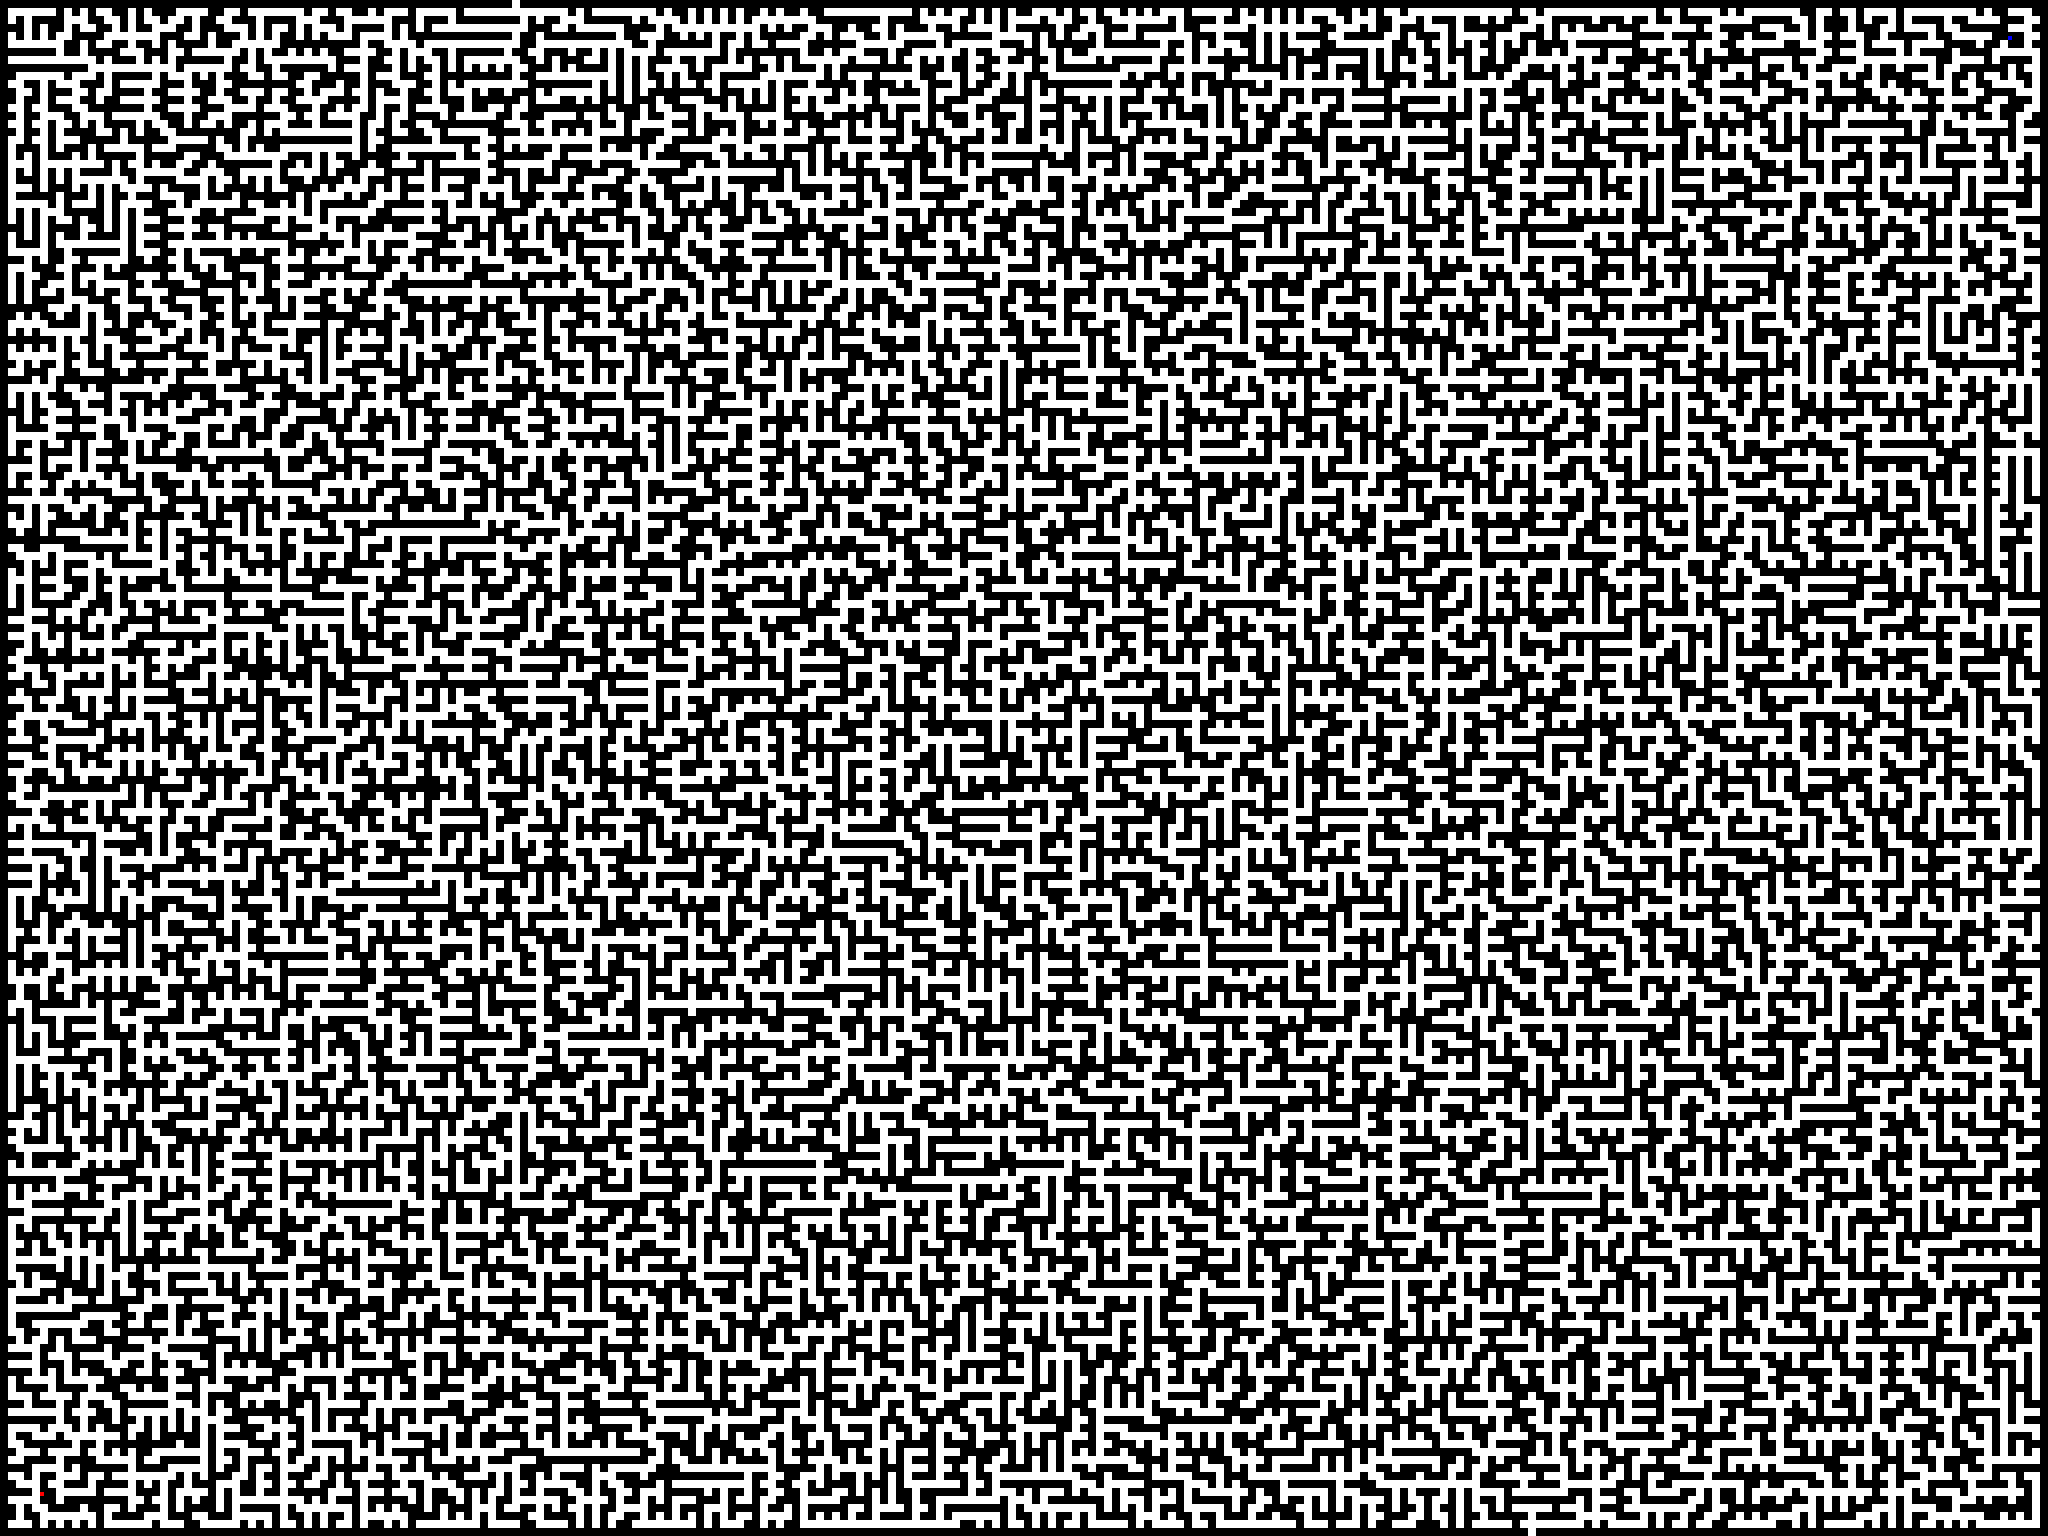
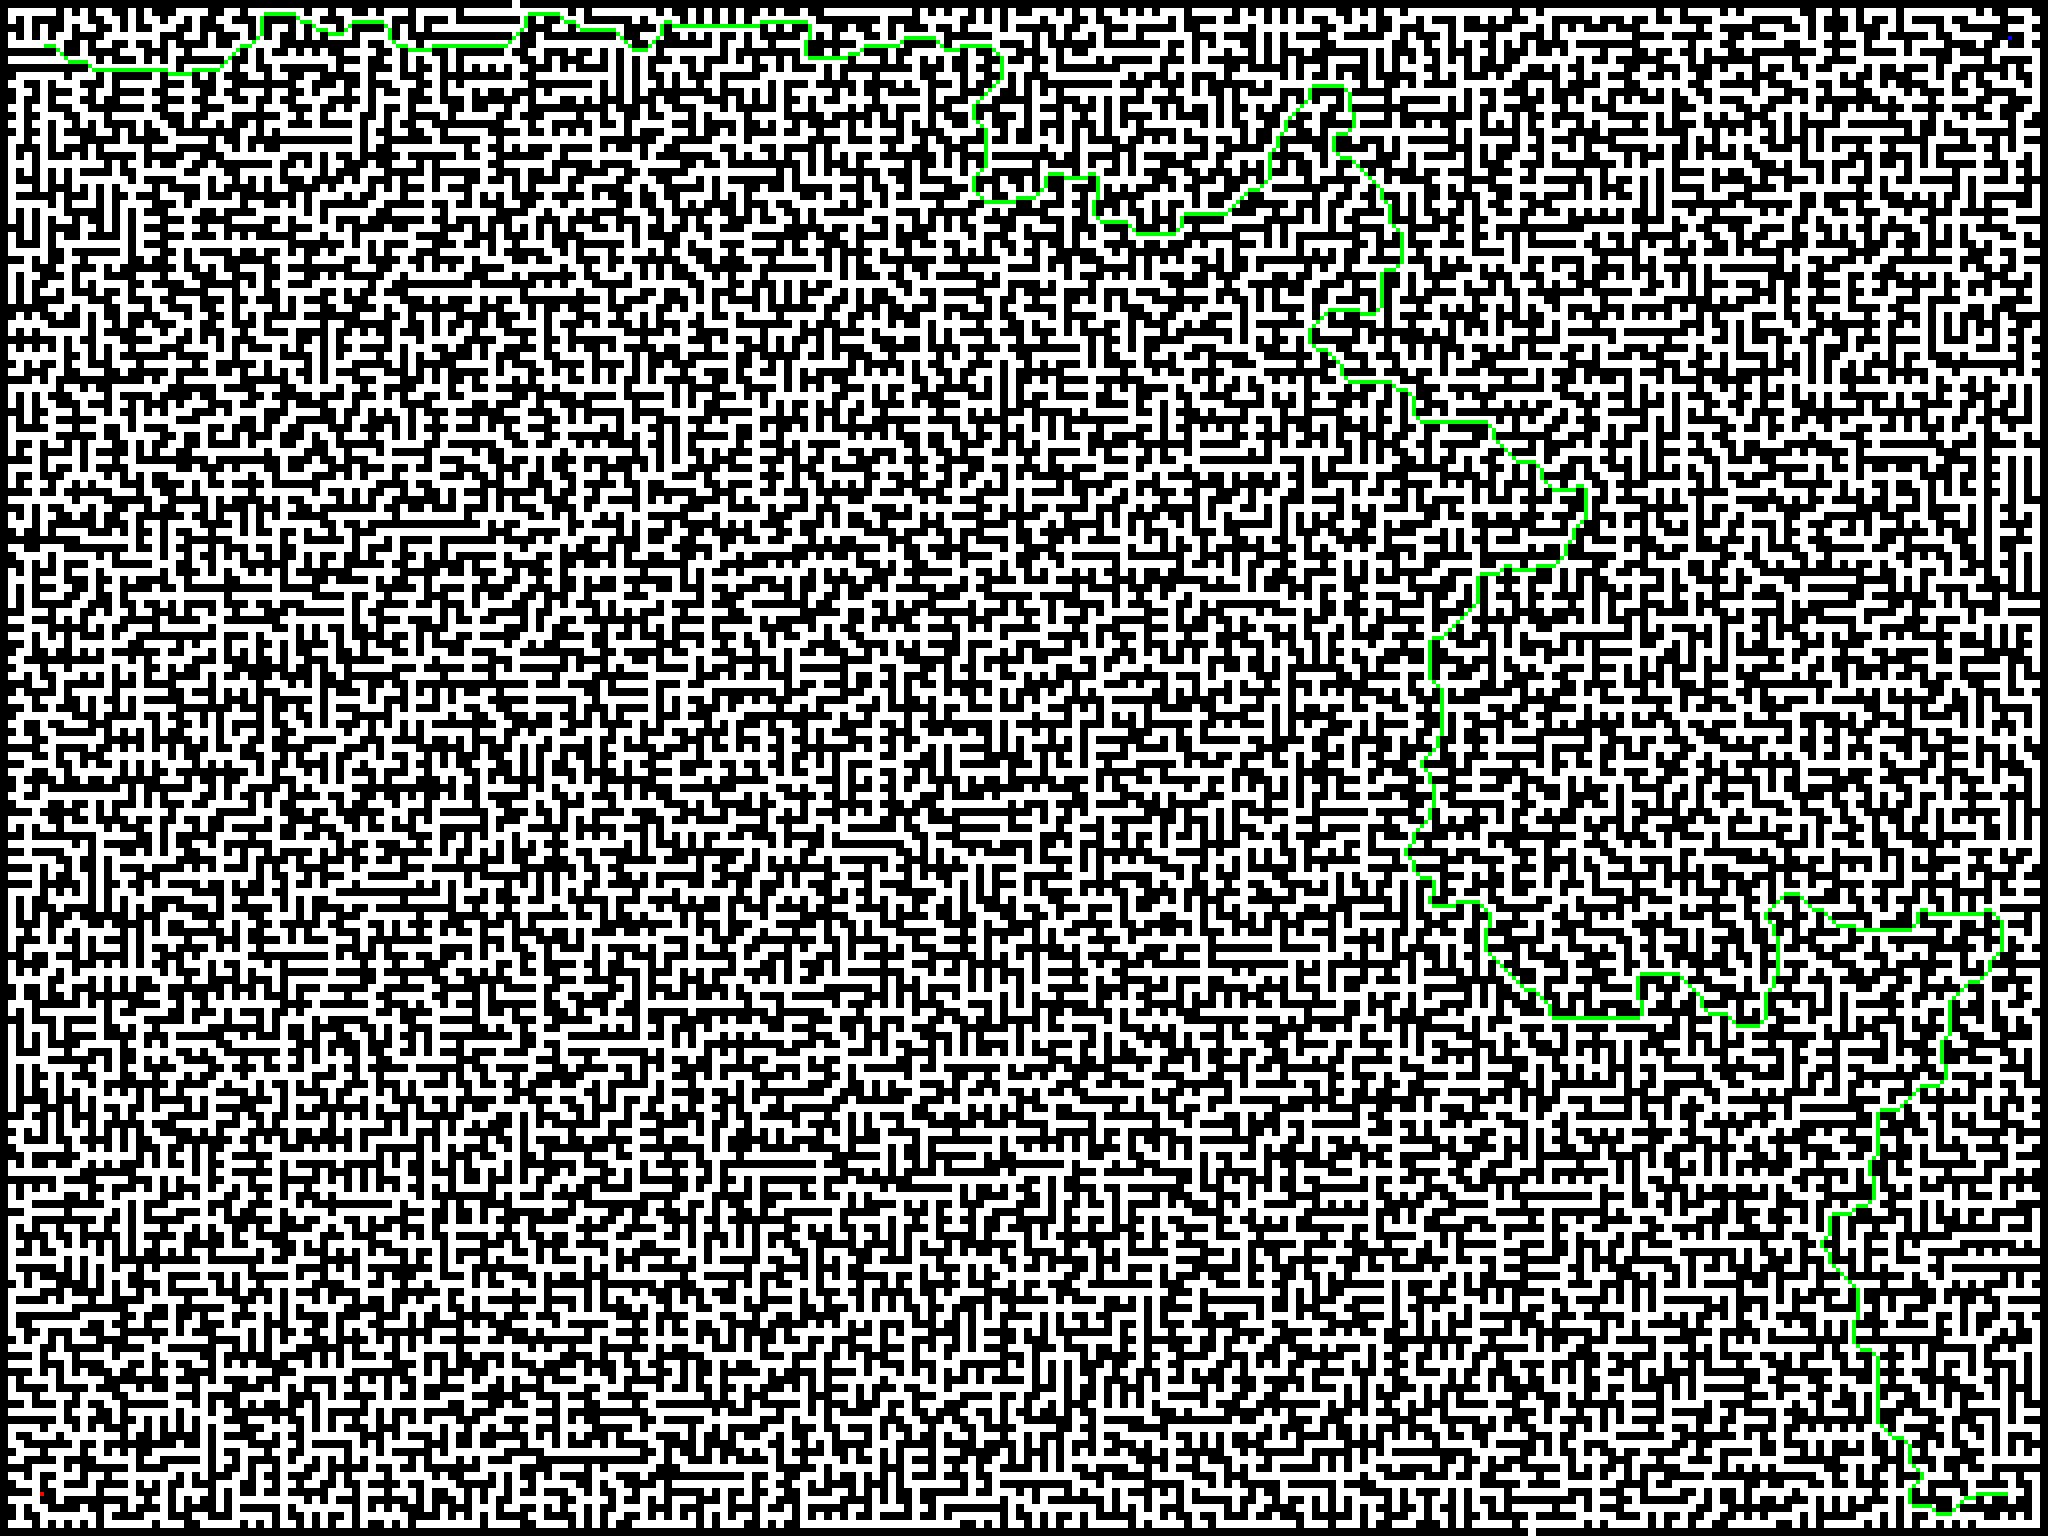
fixed the benchmarks

diff --git a/src/mpath-unity-project/Assets/Benchmarks/Editor/Helpers/UnityMaze.cs b/src/mpath-unity-project/Assets/Benchmarks/Editor/Helpers/UnityMaze.cs
@@ -61,20 +61,6 @@ namespace Benchmarks.Editor.Helpers
         }
 
         /// <summary>
-        /// Create a maze from existing cells
-        /// </summary>
-        public UnityMaze(Cell[,] cells, int width, int height, Coordinate start = default, Coordinate destination = default)
-        {
-            Cells = cells;
-            Width = width;
-            Height = height;
-            Start = start;
-            Destination = destination;
-
-            CreateTexture();
-        }
-
-        /// <summary>
         /// Create cells from the loaded texture
         /// </summary>
         private void CreateCells()
@@ -89,59 +75,21 @@ namespace Benchmarks.Editor.Helpers
                     var pixel = GetPixel(x, y);
                     
                     // Create a new cell
-                    ref var cell = ref Cells[x, y];
+                    ref var cell = ref Cells[x, Height - 1 - y];
                     cell.IsWalkable = IsWalkable(pixel);
-                    cell.Coordinate = new Coordinate(x, y);
+                    cell.Coordinate = new Coordinate(x, Height - 1 - y);
                     
                     // Set start/destination if this pixel is red/blue
                     if (IsStart(pixel))
                     {
-                        Start = new Coordinate(x, y);
+                        Start = new Coordinate(x, Height - 1 - y);
                     }
                     else if (IsDestination(pixel))
                     {
-                        Destination = new Coordinate(x, y);
+                        Destination = new Coordinate(x, Height - 1 - y);
                     }
                 }
             }
-        }
-
-        /// <summary>
-        /// Create a texture from cells
-        /// </summary>
-        private void CreateTexture()
-        {
-            _texture = new Texture2D(Width, Height, TextureFormat.RGBA32, false);
-            _pixelData = new Color32[Width * Height];
-            
-            for (short y = 0; y < Height; y++)
-            {
-                for (short x = 0; x < Width; x++)
-                {
-                    var cell = Cells[x, y];
-                    Color32 pixel = White;
-                    
-                    if (!cell.IsWalkable || cell.IsOccupied)
-                    {
-                        pixel = Black;
-                    }
-                    
-                    var coordinates = new Coordinate(x, y);
-                    
-                    if (Start == coordinates)
-                    {
-                        pixel = Red;
-                    }
-                    else if (Destination == coordinates)
-                    {
-                        pixel = Blue;
-                    }
-                    
-                    SetPixel(x, y, pixel);
-                }
-            }
-            
-            ApplyPixelChanges();
         }
 
         /// <summary>
@@ -185,7 +133,7 @@ namespace Benchmarks.Editor.Helpers
                     continue;
                 }
                 
-                SetPixel((int)coordinate.X, (int)coordinate.Y, Green);
+                SetPixelTopLeftOrigin((int)coordinate.X, (int)coordinate.Y, Green);
             }
             
             ApplyPixelChanges();
@@ -268,6 +216,20 @@ namespace Benchmarks.Editor.Helpers
         private void SetPixel(int x, int y, Color32 color)
         {
             int index = y * Width + x;
+            _pixelData[index] = color;
+        }
+        
+        private Color32 GetPixelTopLeftOrigin(int x, int y)
+        {
+            int flippedY = Height - 1 - y;
+            int index = flippedY * Width + x;
+            return _pixelData[index];
+        }
+
+        private void SetPixelTopLeftOrigin(int x, int y, Color32 color)
+        {
+            int flippedY = Height - 1 - y;
+            int index = flippedY * Width + x;
             _pixelData[index] = color;
         }
 

diff --git a/src/mpath-source/Migs.MPath.Benchmarks/MazeBenchmarkRunner.cs b/src/mpath-source/Migs.MPath.Benchmarks/MazeBenchmarkRunner.cs
@@ -9,7 +9,7 @@ public class MazeBenchmarkRunner
     private readonly (int x, int y) _start = (10, 10);
     private readonly (int x, int y) _destination = (502, 374);
         
-    private static readonly string AtomicRunner = nameof(MigsMazeBenchmarkRunner);
+    private static readonly string AtomicRunner = nameof(MPathMazeBenchmarkRunner);
     private static readonly string RoyTRunner = nameof(RoyTAStarMazeBenchmarkRunner);
     private static readonly string AStarLiteRunner = nameof(AStarLiteBenchmarkRunner);
     private static readonly string LinqToAStarRunner = nameof(LinqToAStarMazeBenchmarkRunner);
@@ -17,7 +17,7 @@ public class MazeBenchmarkRunner
     private readonly Dictionary<string, IMazeBenchmarkRunner> _benchmarkRunners =
         new()
         {
-            [AtomicRunner] = new MigsMazeBenchmarkRunner(),
+            [AtomicRunner] = new MPathMazeBenchmarkRunner(),
             [RoyTRunner] = new RoyTAStarMazeBenchmarkRunner(),
             [AStarLiteRunner] = new AStarLiteBenchmarkRunner(),
             [LinqToAStarRunner] = new LinqToAStarMazeBenchmarkRunner(),

diff --git a/src/mpath-source/Migs.MPath.Benchmarks/MazeBenchmarks/MPathMazeBenchmarkRunner.cs b/src/mpath-source/Migs.MPath.Benchmarks/MazeBenchmarks/MPathMazeBenchmarkRunner.cs
@@ -6,9 +6,9 @@ using Migs.MPath.Tools;
 
 namespace Migs.MPath.Benchmarks.MazeBenchmarks;
 
-public class MigsMazeBenchmarkRunner : BaseMazeBenchmarkRunner
+public class MPathMazeBenchmarkRunner : BaseMazeBenchmarkRunner
 {
-    protected override string ResultImageName => nameof(MigsMazeBenchmarkRunner);
+    protected override string ResultImageName => nameof(MPathMazeBenchmarkRunner);
         
     private Pathfinder _pathfinder;
     private IAgent _agent;

diff --git a/src/mpath-source/Migs.MPath.Benchmarks/MazeBenchmarks/AStarLiteBenchmarkRunner.cs b/src/mpath-source/Migs.MPath.Benchmarks/MazeBenchmarks/AStarLiteBenchmarkRunner.cs
@@ -64,7 +64,7 @@ public class AStarLiteBenchmarkRunner : BaseMazeBenchmarkRunner
         var coordinates = new Coordinate[result.Length];
         for (var i = 0; i < result.Length; i++)
         {
-            coordinates[i] = new Coordinate(result[i].Column, result[i].Row);
+            coordinates[i] = new Coordinate(result[i].Row, result[i].Column);
         }
         
         _maze.AddPath(coordinates);

diff --git a/src/mpath-source/Migs.MPath.Benchmarks/Program.cs b/src/mpath-source/Migs.MPath.Benchmarks/Program.cs
@@ -11,7 +11,7 @@ var config = ManualConfig.CreateMinimumViable()
 
 if (args.Length > 0 && args[0] == "profile")
 {
-    var benchmarkRunner = new MigsMazeBenchmarkRunner();
+    var benchmarkRunner = new MPathMazeBenchmarkRunner();
     benchmarkRunner.Init(null);
 
     for (var i = 0; i < 100; i++)
